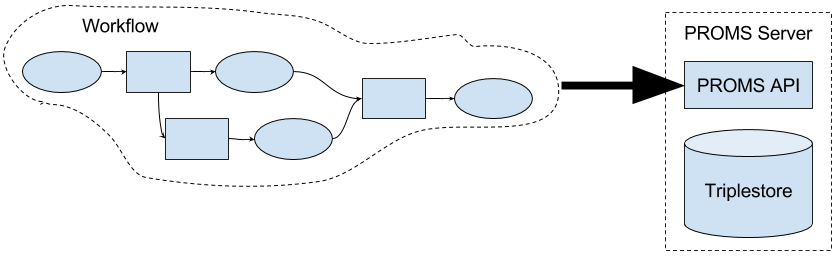
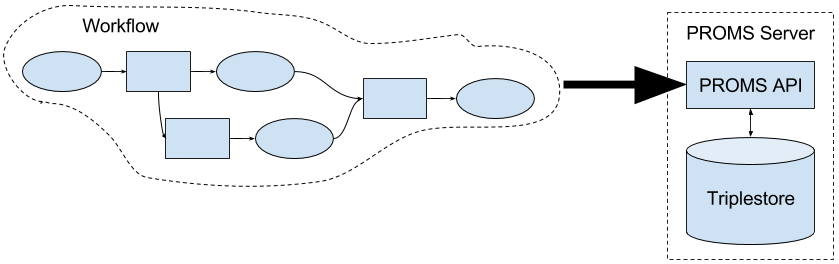
Updated README: Use section, toolkits img

diff --git a/README.md b/README.md
@@ -22,7 +22,12 @@ PROMS Server consists of an HTTP API coded in Python 3.6 using the Flask framewo
 See the [installation](installation/README.md) documents.
 
 ### Use
-*Coming!*
+PROMS Server expects to receive provenance *Reports* that are files containing bundles of provenance information in an RDF format. *Reports* are sent via HTTP POST requests to the PROMS Server's API, validated and then stored in its triplestore.
+
+![PROMS and toolkits](docs/PromsAndToolkits.png) 
+*Figure 2: Sending a Report to PROMS Server from a Python workflow via pyproms*
+
+Figure 2 shows PROMS Server receiving a provenance report from a Python workflow or set of scripts that is using the [pyproms](https://pypi.python.org/pypi/pyproms) Python package to log internal elements of the script into PROV-O compatible RDF. There are similar toolkits avialable for Java, JavaScript and .NET programming languages (see [promsns.org min page](http://promsns.org/)) or you could custom-code your own provenance logging.
 
 
 ## Contributing
